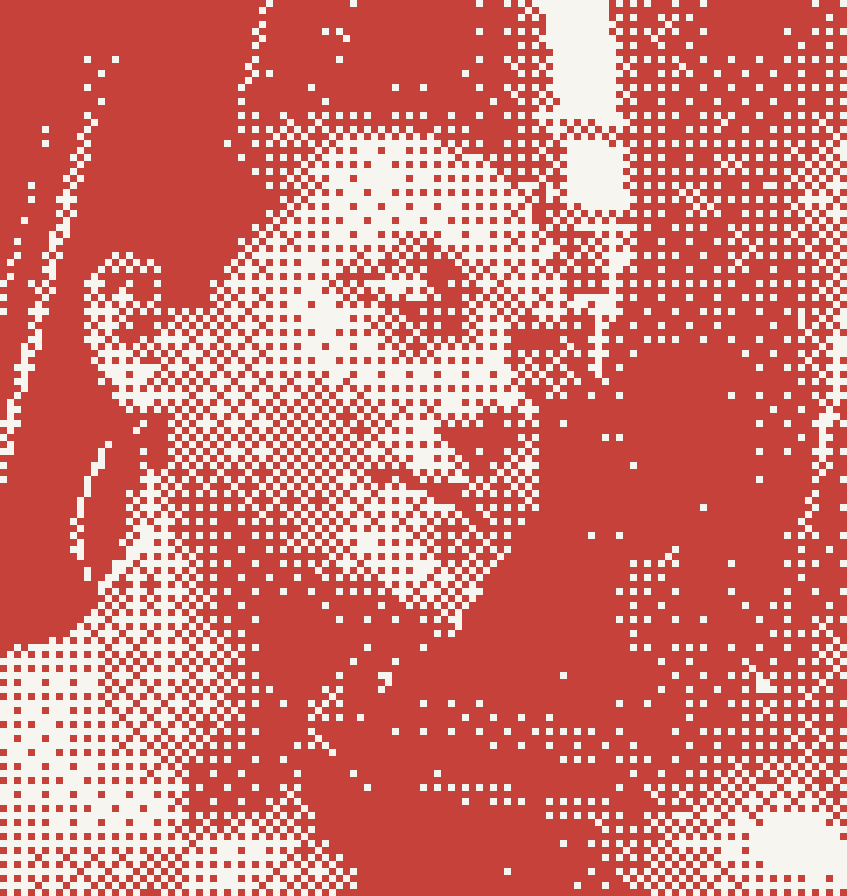
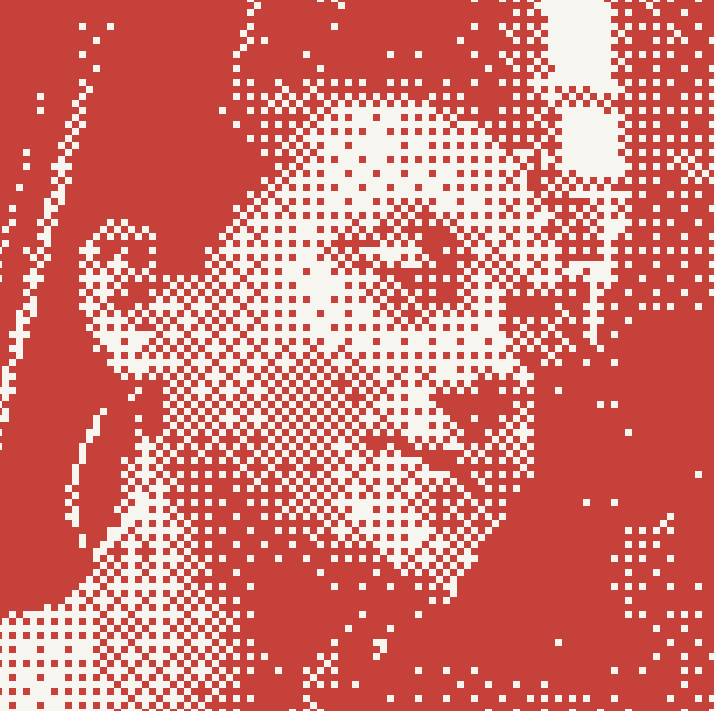
Restructure /go: no header, white tiles, form under call
Refresh RS crop, update copy, and place the lead form directly under the first offer.

diff --git a/go/index.html b/go/index.html
@@ -226,7 +226,7 @@
     .wrap {
       width: min(100%, var(--max));
       margin: 0 auto;
-      padding: calc(var(--header-h) + 36px + env(safe-area-inset-top)) var(--pad) calc(40px + env(safe-area-inset-bottom));
+      padding: calc(28px + env(safe-area-inset-top)) var(--pad) calc(40px + env(safe-area-inset-bottom));
     }
 
     .caps {
@@ -300,12 +300,12 @@
       text-align: center;
     }
 
-    /* Karten: Headline / Bild / Subline */
+    /* Karten: weiße Passepartout-Kacheln */
     .cards {
       display: flex;
       flex-direction: column;
-      gap: 28px;
-      margin-bottom: 36px;
+      gap: 20px;
+      margin-bottom: 20px;
     }
 
     .card {
@@ -314,28 +314,27 @@
       width: 100%;
       text-align: center;
       border: 1px solid transparent;
-      border-radius: var(--radius);
-      background: transparent;
+      border-radius: 2px;
+      background: var(--paper);
+      color: var(--black);
       position: relative;
-      padding: 8px 0 4px;
-      transition: border-color 180ms ease, background 180ms ease;
-      color: var(--paper);
+      padding: 18px 16px 16px;
+      transition: border-color 180ms ease, box-shadow 180ms ease;
     }
 
     .card.is-selected {
-      border-color: var(--paper);
-      background: rgba(247, 245, 240, 0.08);
+      border-color: var(--black);
     }
 
     .card__check {
       position: absolute;
-      top: 0;
-      right: 0;
+      top: 10px;
+      right: 10px;
       width: 22px;
       height: 22px;
       border-radius: 50%;
-      background: var(--paper);
-      color: var(--red);
+      background: var(--red);
+      color: var(--paper);
       display: none;
       align-items: center;
       justify-content: center;
@@ -349,20 +348,21 @@
     .card__title {
       font-family: "Space Grotesk", system-ui, sans-serif;
       font-weight: 400;
-      font-size: clamp(1.35rem, 5.5vw, 1.7rem);
-      line-height: 1.12;
+      font-size: clamp(1.25rem, 5vw, 1.55rem);
+      line-height: 1.15;
       letter-spacing: -0.03em;
       text-transform: none;
       margin-bottom: 14px;
+      color: var(--black);
       padding: 0 8px;
     }
 
     .card__media {
       width: 100%;
-      aspect-ratio: 1 / 1.05;
+      aspect-ratio: 1 / 1;
       overflow: hidden;
-      background: rgba(10, 10, 10, 0.12);
-      margin-bottom: 12px;
+      background: #ece9e2;
+      margin-bottom: 14px;
     }
 
     .card__media img {
@@ -374,16 +374,18 @@
     .card__text {
       font-family: var(--mono);
       font-weight: 400;
-      font-size: 0.68rem;
-      letter-spacing: 0.06em;
+      font-size: 0.884rem;
+      letter-spacing: 0.04em;
       text-transform: uppercase;
       line-height: 1.45;
       padding: 0 4px;
-      color: var(--paper);
+      color: var(--black);
     }
 
-    /* Form */
-    .form-block { margin-bottom: 40px; }
+    .form-block {
+      margin: 0 0 28px;
+      padding: 4px 0 8px;
+    }
 
     .field {
       display: block;
@@ -535,47 +537,13 @@
   </style>
 </head>
 <body>
-  <div class="site-top">
-    <header class="site-header" aria-label="Hauptnavigation">
-      <div class="site-header__left">
-        <button class="icon-btn" type="button" id="btn-menu" aria-label="Menü öffnen" aria-expanded="false" aria-controls="menu-panel">
-          <span class="icon-btn__burger" aria-hidden="true"><i></i></span>
-        </button>
-      </div>
-      <a class="site-header__brand" href="/">gogogo.social</a>
-      <div class="site-header__right">
-        <a class="icon-login" href="/?auth=1" aria-label="Login">
-          <svg viewBox="0 0 24 24" aria-hidden="true">
-            <circle cx="12" cy="8" r="3.25" />
-            <path d="M5.5 19.25c1.6-3.1 3.9-4.5 6.5-4.5s4.9 1.4 6.5 4.5" />
-          </svg>
-        </a>
-      </div>
-    </header>
-  </div>
-
-  <div class="menu-panel" id="menu-panel" hidden>
-    <div class="menu-panel__sheet" role="dialog" aria-label="Menü">
-      <nav class="menu-panel__nav" aria-label="Seiten">
-        <a href="/#vorteile" data-menu-link>ZERO PT / GYM</a>
-        <a href="/#joscha" data-menu-link>Joscha</a>
-        <a href="https://www.fridaycircle.club/kontakt/" data-menu-link>Kontakt</a>
-      </nav>
-      <div class="menu-panel__foot">
-        <a href="/?auth=1">Anmelden</a>
-        <a href="/?auth=1">Mitglied</a>
-        <a href="/app/">App</a>
-      </div>
-    </div>
-  </div>
-
   <div class="wrap">
     <section class="hero" aria-label="Einstieg">
       <div class="cycle-wrap">
         <svg class="cycle is-spinning" id="cycle-hero" viewBox="0 0 240 240" width="240" height="240" aria-hidden="true"></svg>
         <div class="cycle-portrait">
           <img
-            src="/assets/go/gogogo-dithering/gogogo-dither-RS.png"
+            src="/assets/go/gogogo-dithering/gogogo-dither-RS.png?v=2"
             alt=""
             width="400"
             height="400"
@@ -583,9 +551,9 @@
           />
         </div>
       </div>
-      <h1 class="hero__title">Zwei Dinge zum Überleben: Richtige Bewegung &amp; richtige Menschen.</h1>
+      <h1 class="hero__title">2 Dinge sind überlebenswichtig. Die richtige Bewegung. Die richtigen Menschen.</h1>
       <p class="hero__text">
-        Dein Missing Link zum funktionierenden Trainingsplan am richtigen Trainingsort. Versprochen, Du wirst nie wieder alleine zu Hause sitzen und Dich über Dich ärgern, Dich nicht bewegt zu haben.
+        30 Tage im Kreis von guten Menschen und Du bewegst Dich für immer so wie Du es Dir wünscht.
       </p>
     </section>
 
@@ -593,29 +561,11 @@
       <div class="cards" role="group" aria-label="Startoptionen">
         <button class="card" type="button" data-choice="call" aria-pressed="false">
           <span class="card__check" aria-hidden="true">✓</span>
-          <span class="card__title">30 min kostenlos</span>
+          <span class="card__title">Einladung zum Call</span>
           <span class="card__media">
-            <img src="/assets/go/gogogo-dithering/gogogo-dither-Patch-1.png" alt="" width="800" height="840" loading="lazy" decoding="async" />
+            <img src="/assets/go/gogogo-dithering/gogogo-dither-Patch-1.png" alt="" width="800" height="800" loading="lazy" decoding="async" />
           </span>
-          <span class="card__text">Mit Einladungscode schenke ich Dir 30 Min. Lass uns Deine aktuelle Situation besprechen, wo es hakt oder wo Du durchstarten willst.</span>
-        </button>
-
-        <button class="card" type="button" data-choice="plan" aria-pressed="false">
-          <span class="card__check" aria-hidden="true">✓</span>
-          <span class="card__title">Plan direkt &amp; Buddy einladen</span>
-          <span class="card__media">
-            <img src="/assets/go/gogogo-dithering/gogogo-dither-Bikes.png" alt="" width="800" height="840" loading="lazy" decoding="async" />
-          </span>
-          <span class="card__text">Formular ausfüllen, Vier Wochen machen und mit Joscha oder einem Buddy zusammen trainieren.</span>
-        </button>
-
-        <button class="card" type="button" data-choice="trainer" aria-pressed="false">
-          <span class="card__check" aria-hidden="true">✓</span>
-          <span class="card__title">Personal Trainer finden</span>
-          <span class="card__media">
-            <img src="/assets/go/gogogo-dithering/gogogo-dither-Patch3.png" alt="" width="800" height="840" loading="lazy" decoding="async" />
-          </span>
-          <span class="card__text">Der passende Trainer für dein Ziel, vor Ort oder online. Mit fairem Einstiegsangebot.</span>
+          <span class="card__text">Lass uns Deine aktuelle Situation besprechen, wo es hakt oder wo Du durchstarten willst.</span>
         </button>
       </div>
 
@@ -661,13 +611,33 @@
           <p class="form-msg" id="go-msg" role="status" aria-live="polite"></p>
         </form>
       </section>
+
+      <div class="cards" role="group" aria-label="Weitere Angebote">
+        <button class="card" type="button" data-choice="plan" aria-pressed="false">
+          <span class="card__check" aria-hidden="true">✓</span>
+          <span class="card__title">Trainingsbuddys</span>
+          <span class="card__media">
+            <img src="/assets/go/gogogo-dithering/gogogo-dither-Bikes.png" alt="" width="800" height="800" loading="lazy" decoding="async" />
+          </span>
+          <span class="card__text">Formular ausfüllen und mit Hilfe von Joscha und Trainingsbuddys zusammen trainieren.</span>
+        </button>
+
+        <button class="card" type="button" data-choice="trainer" aria-pressed="false">
+          <span class="card__check" aria-hidden="true">✓</span>
+          <span class="card__title">Personal Trainer</span>
+          <span class="card__media">
+            <img src="/assets/go/gogogo-dithering/gogogo-dither-Patch3.png" alt="" width="800" height="800" loading="lazy" decoding="async" />
+          </span>
+          <span class="card__text">Willst Du mit einem Trainer durchstarten? Wir finden den perfekten Match zum top Angebot.</span>
+        </button>
+      </div>
     </div>
 
     <section class="success" id="flow-success" aria-live="polite">
       <div class="cycle-wrap" style="margin-bottom:20px">
         <svg class="cycle" id="cycle-done" viewBox="0 0 240 240" width="240" height="240" aria-hidden="true"></svg>
         <div class="cycle-portrait">
-          <img src="/assets/go/gogogo-dithering/gogogo-dither-RS.png" alt="" width="400" height="400" decoding="async" />
+          <img src="/assets/go/gogogo-dithering/gogogo-dither-RS.png?v=2" alt="" width="400" height="400" decoding="async" />
         </div>
       </div>
       <h2 class="success__title" id="success-title">Stark.</h2>
@@ -721,30 +691,6 @@
       var noWaNote = document.getElementById("no-wa-note");
 
       if (!hasCodeParam) inviteWrap.hidden = false;
-
-      /* Menü wie Startseite */
-      var menu = document.getElementById("menu-panel");
-      var btnMenu = document.getElementById("btn-menu");
-      function openMenu(open) {
-        menu.hidden = !open;
-        menu.classList.toggle("is-open", open);
-        document.body.classList.toggle("menu-open", open);
-        btnMenu.classList.toggle("is-open", open);
-        btnMenu.setAttribute("aria-expanded", open ? "true" : "false");
-        btnMenu.setAttribute("aria-label", open ? "Menü schließen" : "Menü öffnen");
-      }
-      btnMenu.addEventListener("click", function () {
-        openMenu(!menu.classList.contains("is-open"));
-      });
-      document.querySelectorAll("[data-menu-link]").forEach(function (el) {
-        el.addEventListener("click", function () { openMenu(false); });
-      });
-      menu.addEventListener("click", function (e) {
-        if (e.target === menu) openMenu(false);
-      });
-      document.addEventListener("keydown", function (e) {
-        if (e.key === "Escape" && menu.classList.contains("is-open")) openMenu(false);
-      });
 
       function drawCycle(svg, fillAll) {
         var ns = "http://www.w3.org/2000/svg";
